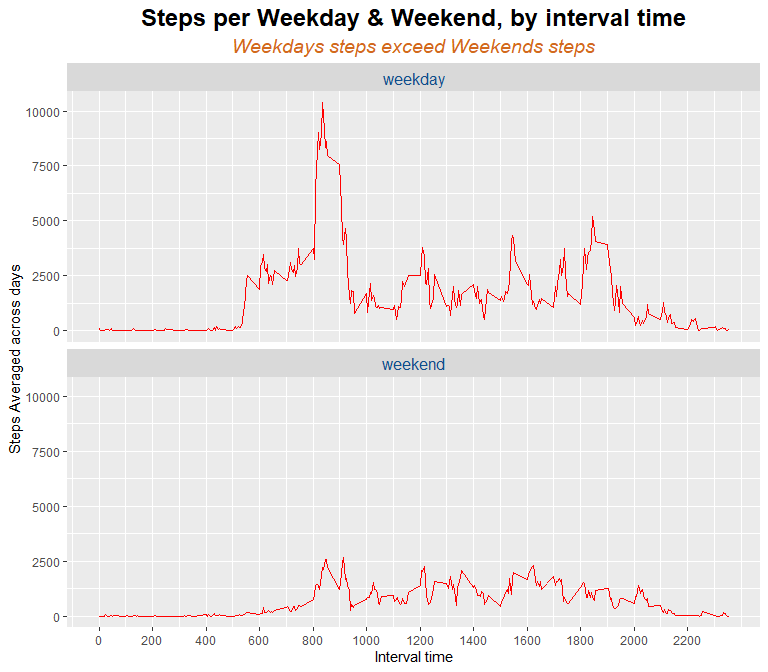
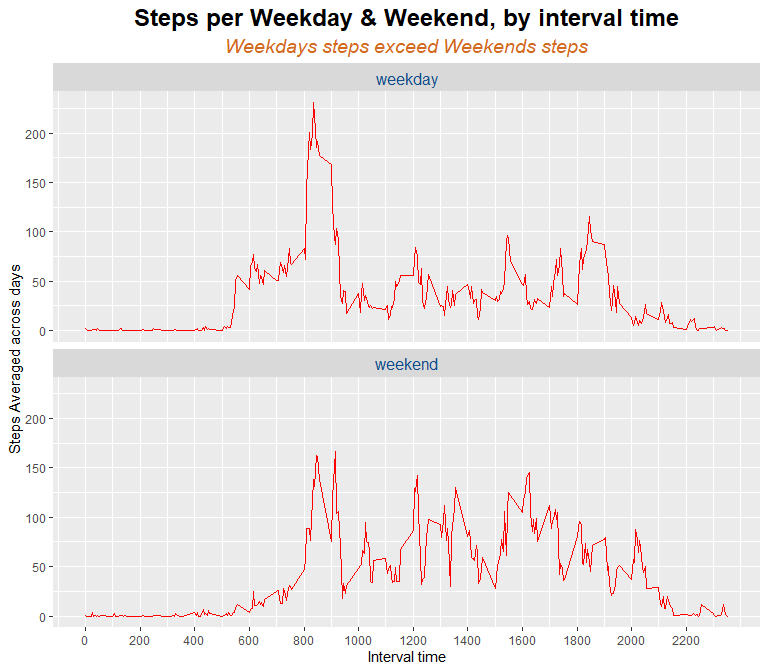
Final commit

diff --git a/PA1_template.html b/PA1_template.html
@@ -169,7 +169,7 @@ ActivityData<span class="op">$</span>Day&lt;-<span class="kw">as.factor</span>(A
 
 StepsperWeekDay&lt;-ActivityData<span class="op">%&gt;%</span>
 <span class="st">  </span><span class="kw">group_by</span>(interval,Day)<span class="op">%&gt;%</span>
-<span class="st">  </span><span class="kw">summarise</span>(<span class="dt">steps=</span><span class="kw">sum</span>(steps))
+<span class="st">  </span><span class="kw">summarise</span>(<span class="dt">steps=</span><span class="kw">mean</span>(steps))
 
 <span class="kw">library</span>(ggplot2)
 
@@ -184,7 +184,7 @@ StepsperWeekDay&lt;-ActivityData<span class="op">%&gt;%</span>
 <span class="st">  </span><span class="kw">theme</span>( <span class="dt">strip.text=</span><span class="kw">element_text</span>(<span class="dt">size=</span><span class="dv">12</span>,<span class="dt">color=</span><span class="st">&quot;dodgerblue4&quot;</span>))<span class="op">+</span>
 <span class="kw">theme</span>(<span class="dt">plot.title=</span><span class="kw">element_text</span>(<span class="dt">size=</span><span class="dv">18</span>, <span class="dt">hjust=</span><span class="fl">0.5</span>, <span class="dt">face=</span><span class="st">&quot;bold&quot;</span>, <span class="dt">colour=</span><span class="st">&quot;black&quot;</span>))<span class="op">+</span>
 <span class="kw">theme</span>(<span class="dt">plot.subtitle=</span><span class="kw">element_text</span>(<span class="dt">size=</span><span class="dv">14</span>, <span class="dt">hjust=</span><span class="fl">0.5</span>, <span class="dt">face=</span><span class="st">&quot;italic&quot;</span>, <span class="dt">color=</span><span class="st">&quot;chocolate&quot;</span>))</code></pre></div>
[2 lines of base64/hex data omitted]
 
 </body>
 </html>

diff --git a/PA1_template.md b/PA1_template.md
@@ -224,7 +224,7 @@ ActivityData$interval<-as.numeric(ActivityData$interval)
 
 StepsperWeekDay<-ActivityData%>%
   group_by(interval,Day)%>%
-  summarise(steps=sum(steps))
+  summarise(steps=mean(steps))
 
 library(ggplot2)
 
